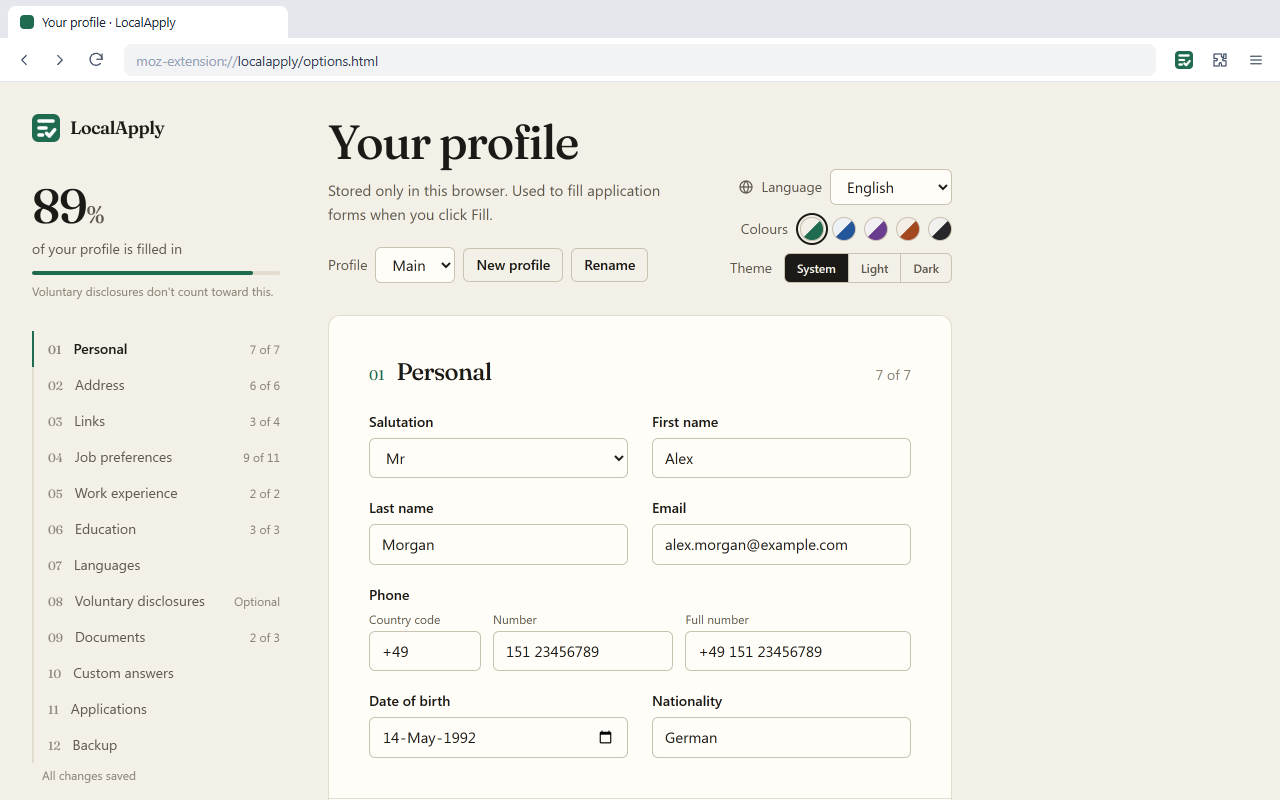
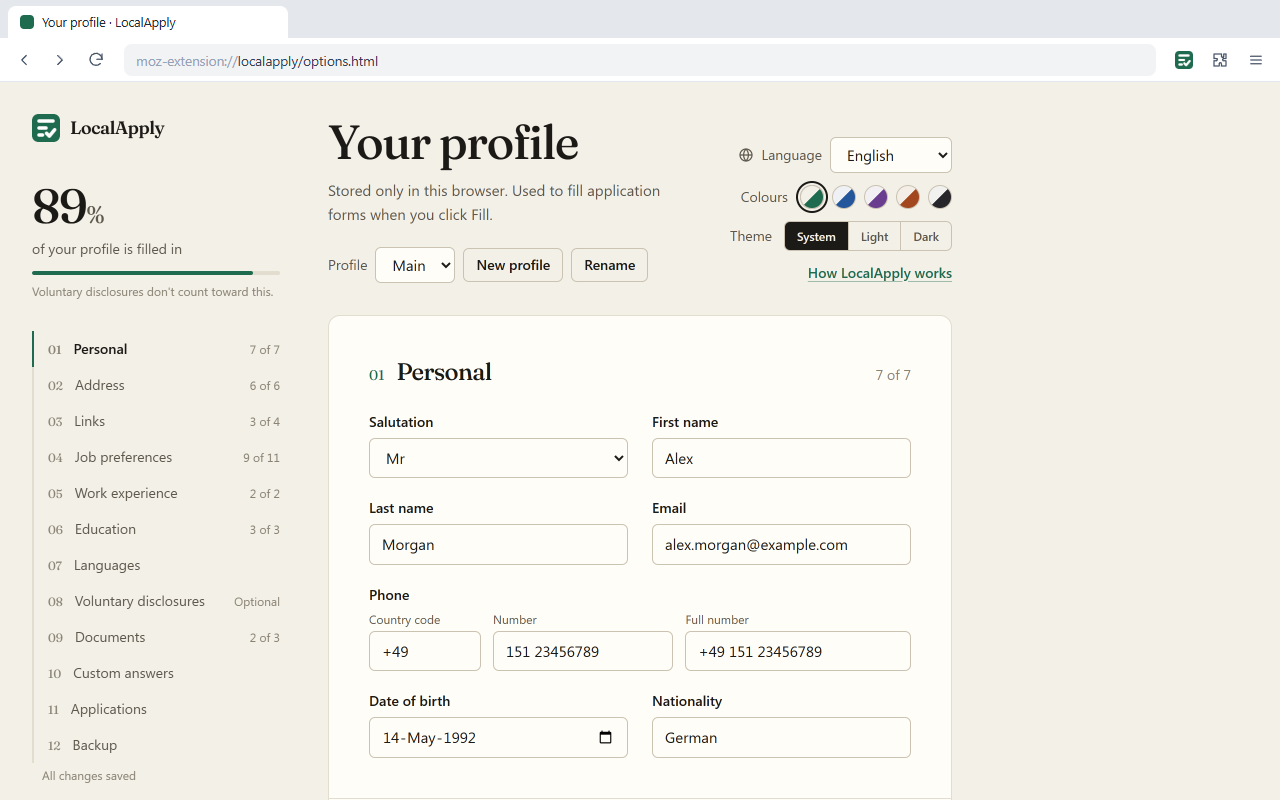
Store listings and images for 0.9.0
Store descriptions in all eight languages mention learned answers, the
right-click menu, the earlier-application note and the welcome page. Store
images are regenerated; the script now seeds the demo profile in the
per-profile format, since the background reads the profile index on startup
and an old single-key profile would no longer be moved in.

Changed region(s): [[0.5625, 0.1875, 0.75, 0.375]]

diff --git a/store/firefox/description.de.md b/store/firefox/description.de.md
@@ -8,7 +8,7 @@ Schluss damit, den Lebenslauf in jede Bewerbung abzutippen. LocalApply speichert
 - **Deine Daten bleiben privat.** Dein Profil liegt in Firefox auf deinem Rechner. Kein Konto, kein Server, keine KI, kein Tracking.
 - **In jeder Sprache bewerben.** Erkennt Feldbezeichnungen auf Deutsch, Englisch, Französisch, Spanisch, Italienisch, Niederländisch, Portugiesisch und Polnisch.
 - **So, wie es dir gefällt.** Die Oberfläche spricht acht Sprachen, mit fünf Farbpaletten und hellem oder dunklem Design.
-- **Jede Frage nur einmal beantworten.** Speichere deine Antwort auf wiederkehrende Fragen wie „Wie sind Sie auf uns aufmerksam geworden?", und sie wird beim nächsten Mal eingetragen.
+- **Jede Frage nur einmal beantworten.** Tippe deine Antwort auf eine neue Frage wie „Warum möchten Sie zu uns?" ein, und LocalApply bietet an, sie zu speichern; beim nächsten Mal wird sie eingetragen.
 
 **Was ausgefüllt wird**
 
@@ -28,16 +28,16 @@ Greenhouse, Ashby, Personio, Recruitee, Teamtailor und gewöhnliche Karriereseit
 
 **So nutzt du es**
 
-1. Gib deine Daten einmal auf der Profilseite ein. Sie öffnet sich nach der Installation von selbst.
+1. Gib deine Daten einmal auf der Profilseite ein. Nach der Installation führt dich eine kurze Willkommensseite dorthin.
 2. Öffne eine Bewerbung, klicke auf das LocalApply-Symbol in der Symbolleiste und dann auf **Diese Seite ausfüllen**, oder drücke **Alt+Umschalt+F**.
-3. Prüfe das Ergebnis. Ausgefüllte Felder bekommen einen durchgehenden grünen Rahmen; Pflichtfragen, die offen bleiben, bekommen einen gestrichelten gelben Rahmen und werden aufgelistet, damit du sie ergänzen kannst. **Rückgängig** setzt die Felder zurück.
+3. Prüfe das Ergebnis. Ausgefüllte Felder bekommen einen durchgehenden grünen Rahmen; Pflichtfragen, die offen bleiben, bekommen einen gestrichelten gelben Rahmen und werden aufgelistet, damit du sie ergänzen kannst. **Rückgängig** setzt die Felder zurück. Antworten, die du selbst eintippst, werden zum Speichern angeboten, und ein Rechtsklick füllt jedes einzelne Feld.
 
 **Sicher von Grund auf**
 
 - Klickt nie auf „Absenden" oder „Weiter" und setzt keine Einwilligungshäkchen.
 - Lässt Felder, die du schon ausgefüllt hast, unverändert.
 - Exportiere dein Profil als Datei oder lösche alles mit einem Klick.
-- Auch das Protokoll deiner ausgefüllten Bewerbungen bleibt auf deinem Rechner; schalte es ab, leere es oder exportiere es als CSV.
+- Auch das Protokoll deiner ausgefüllten Bewerbungen bleibt auf deinem Rechner, und das Pop-up sagt dir, wenn du dich schon einmal bei einer Firma beworben hast; schalte es ab, leere es oder exportiere es als CSV.
 
 **Warum Zugriff auf alle Websites nötig ist**
 

diff --git a/store/firefox/description.fr.md b/store/firefox/description.fr.md
@@ -9,6 +9,7 @@ Arrêtez de recopier votre CV dans chaque candidature. LocalApply enregistre vos
 - **Postulez dans n’importe quelle langue.** Reconnaît les intitulés des formulaires en français, anglais, allemand, espagnol, italien, néerlandais, portugais et polonais.
 - **Répondez une seule fois.** Enregistrez votre réponse à une question récurrente comme « Comment avez-vous entendu parler de nous ? » et elle sera remplie la fois suivante.
 - **À votre goût.** Interface en huit langues, cinq palettes de couleurs, thème clair ou sombre.
+- **Une seule réponse par question.** Tapez votre réponse à une nouvelle question comme « Pourquoi voulez-vous nous rejoindre ? » et LocalApply propose de l’enregistrer ; la prochaine fois, elle est remplie pour vous.
 
 **Ce qu’il remplit**
 
@@ -28,16 +29,16 @@ Greenhouse, Ashby, Personio, Recruitee, Teamtailor et les pages carrières ordin
 
 **Comment l’utiliser**
 
-1. Saisissez vos informations une fois sur la page de profil. Elle s’ouvre d’elle-même après l’installation.
+1. Saisissez vos informations une fois sur la page de profil. Après l’installation, une courte page d’accueil vous y mène.
 2. Ouvrez une candidature, cliquez sur le bouton LocalApply de la barre d’outils puis sur **Remplir cette page**, ou appuyez sur **Alt+Maj+F**.
-3. Vérifiez le résultat. Les champs remplis ont un contour vert continu ; les questions obligatoires restées sans réponse ont un contour orange en pointillés et sont listées pour que vous les complétiez. **Annuler** remet les champs comme avant.
+3. Vérifiez le résultat. Les champs remplis ont un contour vert continu ; les questions obligatoires restées sans réponse ont un contour orange en pointillés et sont listées pour que vous les complétiez. **Annuler** remet les champs comme avant. Les réponses que vous tapez vous-même sont proposées à l’enregistrement, et un clic droit remplit n’importe quel champ.
 
 **Sûr par conception**
 
 - Ne clique jamais sur « Envoyer » ou « Suivant » et ne coche jamais de case de consentement.
 - Ne touche pas aux champs que vous avez déjà remplis.
 - Exportez votre profil dans un fichier, ou supprimez tout en un clic.
-- Le journal des candidatures remplies reste lui aussi sur votre ordinateur ; désactivez-le, videz-le ou exportez-le en CSV.
+- Le journal des candidatures remplies reste lui aussi sur votre ordinateur, et la fenêtre de l’extension vous signale une entreprise où vous avez déjà postulé ; désactivez-le, videz-le ou exportez-le en CSV.
 
 **Pourquoi il a besoin d’accéder à tous les sites**
 

diff --git a/store/firefox/description.es.md b/store/firefox/description.es.md
@@ -9,6 +9,7 @@ Deja de copiar tu CV en cada candidatura. LocalApply guarda tus datos una vez, s
 - **Postula en cualquier idioma.** Reconoce las etiquetas de los formularios en español, inglés, alemán, francés, italiano, neerlandés, portugués y polaco.
 - **Responde cada pregunta una vez.** Guarda tu respuesta a una pregunta habitual como «¿Cómo nos conociste?» y se rellenará la próxima vez.
 - **A tu gusto.** Interfaz en ocho idiomas, cinco paletas de colores y tema claro u oscuro.
+- **Responde cada pregunta una sola vez.** Escribe tu respuesta a una pregunta nueva como «¿Por qué quieres trabajar con nosotros?» y LocalApply te ofrece guardarla; la próxima vez se rellena sola.
 
 **Qué rellena**
 
@@ -28,16 +29,16 @@ Greenhouse, Ashby, Personio, Recruitee, Teamtailor y las páginas de empleo norm
 
 **Cómo se usa**
 
-1. Introduce tus datos una vez en la página de perfil. Se abre sola al instalar la extensión.
+1. Introduce tus datos una vez en la página de perfil. Al instalar la extensión, una breve página de bienvenida te lleva allí.
 2. Abre una candidatura, haz clic en el botón de LocalApply de la barra de herramientas y luego en **Rellenar esta página**, o pulsa **Alt+Mayús+F**.
-3. Revisa el resultado. Los campos rellenados llevan un contorno verde continuo; las preguntas obligatorias sin responder llevan un contorno naranja discontinuo y aparecen en una lista para que las completes. **Deshacer** devuelve los campos a como estaban.
+3. Revisa el resultado. Los campos rellenados llevan un contorno verde continuo; las preguntas obligatorias sin responder llevan un contorno naranja discontinuo y aparecen en una lista para que las completes. **Deshacer** devuelve los campos a como estaban. Las respuestas que escribes tú se ofrecen para guardarlas, y un clic derecho rellena cualquier campo.
 
 **Seguro desde el diseño**
 
 - Nunca pulsa «Enviar» ni «Siguiente» y nunca marca casillas de consentimiento.
 - No toca los campos que ya has rellenado.
 - Exporta tu perfil a un archivo o bórralo todo con un clic.
-- El registro de las candidaturas que rellenas también se queda en tu ordenador; desactívalo, vacíalo o expórtalo como CSV.
+- El registro de las candidaturas que rellenas también se queda en tu ordenador, y la ventana de la extensión te avisa si ya te postulaste en una empresa; desactívalo, vacíalo o expórtalo como CSV.
 
 **Por qué necesita acceso a todos los sitios web**
 

diff --git a/store/firefox/description.it.md b/store/firefox/description.it.md
@@ -9,6 +9,7 @@ Basta ricopiare il CV in ogni candidatura. LocalApply salva i tuoi dati una volt
 - **Candidati in qualsiasi lingua.** Riconosce le etichette dei moduli in italiano, inglese, tedesco, francese, spagnolo, olandese, portoghese e polacco.
 - **Rispondi una volta sola.** Salva la risposta a una domanda ricorrente come «Come ci hai conosciuto?» e verrà inserita la volta successiva.
 - **Come piace a te.** Interfaccia in otto lingue, cinque palette di colori, tema chiaro o scuro.
+- **Ogni domanda una volta sola.** Scrivi la risposta a una domanda nuova come «Perché vuoi lavorare con noi?» e LocalApply propone di salvarla; la prossima volta viene compilata per te.
 
 **Cosa compila**
 
@@ -28,16 +29,16 @@ Greenhouse, Ashby, Personio, Recruitee, Teamtailor e le normali pagine carriere 
 
 **Come si usa**
 
-1. Inserisci i tuoi dati una volta nella pagina del profilo. Si apre da sola dopo l’installazione.
+1. Inserisci i tuoi dati una volta nella pagina del profilo. Dopo l’installazione, una breve pagina di benvenuto ti ci porta.
 2. Apri una candidatura, fai clic sul pulsante LocalApply nella barra degli strumenti e poi su **Compila questa pagina**, oppure premi **Alt+Maiusc+F**.
-3. Controlla il risultato. I campi compilati hanno un bordo verde continuo; le domande obbligatorie rimaste senza risposta hanno un bordo arancione tratteggiato e sono elencate perché tu possa completarle. **Annulla** rimette i campi com’erano.
+3. Controlla il risultato. I campi compilati hanno un bordo verde continuo; le domande obbligatorie rimaste senza risposta hanno un bordo arancione tratteggiato e sono elencate perché tu possa completarle. **Annulla** rimette i campi com’erano. Le risposte che scrivi tu vengono proposte per il salvataggio, e un clic destro compila qualsiasi campo.
 
 **Sicuro per costruzione**
 
 - Non preme mai «Invia» o «Avanti» e non spunta mai caselle di consenso.
 - Lascia invariati i campi che hai già compilato.
 - Esporta il profilo in un file o elimina tutto con un clic.
-- Anche il registro delle candidature compilate resta sul tuo computer; disattivalo, svuotalo o esportalo in CSV.
+- Anche il registro delle candidature compilate resta sul tuo computer, e la finestra dell’estensione ti avvisa se hai già inviato una candidatura a un’azienda; disattivalo, svuotalo o esportalo in CSV.
 
 **Perché chiede l’accesso a tutti i siti**
 

diff --git a/store/firefox/description.pl.md b/store/firefox/description.pl.md
@@ -9,6 +9,7 @@ Koniec z przepisywaniem CV do każdej aplikacji. LocalApply zapisuje Twoje dane 
 - **Aplikuj w każdym języku.** Rozpoznaje etykiety formularzy po polsku, angielsku, niemiecku, francusku, hiszpańsku, włosku, niderlandzku i portugalsku.
 - **Odpowiadaj na pytanie tylko raz.** Zapisz odpowiedź na powtarzające się pytanie, np. „Skąd dowiedziałeś się o nas?”, a następnym razem zostanie wpisana.
 - **Po Twojemu.** Interfejs w ośmiu językach, pięć palet kolorów, motyw jasny lub ciemny.
+- **Każde pytanie tylko raz.** Wpisz odpowiedź na nowe pytanie, np. „Dlaczego chcesz do nas dołączyć?”, a LocalApply zaproponuje jej zapisanie; następnym razem zostanie wpisana za Ciebie.
 
 **Co wypełnia**
 
@@ -28,16 +29,16 @@ Greenhouse, Ashby, Personio, Recruitee, Teamtailor i zwykłe strony kariery firm
 
 **Jak z niego korzystać**
 
-1. Wpisz swoje dane raz na stronie profilu. Otwiera się sama po instalacji.
+1. Wpisz swoje dane raz na stronie profilu. Po instalacji krótka strona powitalna zaprowadzi Cię tam.
 2. Otwórz formularz aplikacyjny, kliknij przycisk LocalApply na pasku narzędzi, a potem **Wypełnij tę stronę**, albo naciśnij **Alt+Shift+F**.
-3. Sprawdź wynik. Wypełnione pola dostają ciągłą zieloną ramkę; obowiązkowe pytania bez odpowiedzi dostają przerywaną pomarańczową ramkę i trafiają na listę, żebyś mógł je uzupełnić. **Cofnij** przywraca pola do poprzedniego stanu.
+3. Sprawdź wynik. Wypełnione pola dostają ciągłą zieloną ramkę; obowiązkowe pytania bez odpowiedzi dostają przerywaną pomarańczową ramkę i trafiają na listę, żebyś mógł je uzupełnić. **Cofnij** przywraca pola do poprzedniego stanu. Odpowiedzi wpisane samodzielnie są proponowane do zapisania, a prawy przycisk wypełnia dowolne pole.
 
 **Bezpieczny z założenia**
 
 - Nigdy nie klika „Wyślij” ani „Dalej” i nigdy nie zaznacza zgód.
 - Nie zmienia pól, które już wypełniłeś.
 - Wyeksportuj profil do pliku albo usuń wszystko jednym kliknięciem.
-- Dziennik wypełnionych aplikacji też zostaje na Twoim komputerze; wyłącz go, wyczyść albo wyeksportuj jako CSV.
+- Dziennik wypełnionych aplikacji też zostaje na Twoim komputerze, a okienko rozszerzenia przypomina, gdy firma jest już w dzienniku; wyłącz go, wyczyść albo wyeksportuj jako CSV.
 
 **Dlaczego potrzebuje dostępu do wszystkich stron**
 

diff --git a/store/firefox/description.nl.md b/store/firefox/description.nl.md
@@ -9,6 +9,7 @@ Stop met je cv overtypen in elke sollicitatie. LocalApply bewaart je gegevens é
 - **Solliciteer in elke taal.** Herkent formulierlabels in het Nederlands, Engels, Duits, Frans, Spaans, Italiaans, Portugees en Pools.
 - **Beantwoord elke vraag één keer.** Bewaar je antwoord op een terugkerende vraag zoals "Hoe heb je ons gevonden?" en het wordt de volgende keer ingevuld.
 - **Zoals jij het wilt.** Interface in acht talen, vijf kleurenpaletten, licht of donker thema.
+- **Elke vraag maar één keer beantwoorden.** Typ je antwoord op een nieuwe vraag zoals "Waarom wil je bij ons werken?" en LocalApply biedt aan het te bewaren; de volgende keer wordt het voor je ingevuld.
 
 **Wat het invult**
 
@@ -28,16 +29,16 @@ Greenhouse, Ashby, Personio, Recruitee, Teamtailor en gewone vacaturepagina’s 
 
 **Zo gebruik je het**
 
-1. Vul je gegevens één keer in op de profielpagina. Die opent vanzelf na de installatie.
+1. Vul je gegevens één keer in op de profielpagina. Na de installatie brengt een korte welkomstpagina je erheen.
 2. Open een sollicitatie, klik op de LocalApply-knop in de werkbalk en dan op **Deze pagina invullen**, of druk op **Alt+Shift+F**.
-3. Controleer het resultaat. Ingevulde velden krijgen een doorgetrokken groene rand; verplichte vragen die open blijven krijgen een gestippelde oranje rand en staan in een lijst, zodat je ze kunt aanvullen. **Ongedaan maken** zet de velden terug.
+3. Controleer het resultaat. Ingevulde velden krijgen een doorgetrokken groene rand; verplichte vragen die open blijven krijgen een gestippelde oranje rand en staan in een lijst, zodat je ze kunt aanvullen. **Ongedaan maken** zet de velden terug. Antwoorden die je zelf typt worden aangeboden om te bewaren, en met de rechtermuisknop vul je elk los veld.
 
 **Veilig van opzet**
 
 - Klikt nooit op "Versturen" of "Volgende" en vinkt nooit toestemmingsvakjes aan.
 - Laat velden die je al hebt ingevuld met rust.
 - Exporteer je profiel naar een bestand of verwijder alles met één klik.
-- Ook het logboek van ingevulde sollicitaties blijft op je computer; zet het uit, wis het of exporteer het als CSV.
+- Ook het logboek van ingevulde sollicitaties blijft op je computer, en het venster van de extensie meldt het als je al eerder bij een bedrijf solliciteerde; zet het uit, wis het of exporteer het als CSV.
 
 **Waarom het toegang tot alle websites vraagt**
 

diff --git a/store/firefox/description.pt.md b/store/firefox/description.pt.md
@@ -9,6 +9,7 @@ Chega de copiar o CV para cada candidatura. O LocalApply guarda os seus dados um
 - **Candidate-se em qualquer língua.** Reconhece as etiquetas dos formulários em português, inglês, alemão, francês, espanhol, italiano, neerlandês e polaco.
 - **Responda uma só vez.** Guarde a resposta a uma pergunta recorrente como «Como teve conhecimento de nós?» e ela será preenchida da próxima vez.
 - **À sua maneira.** Interface em oito línguas, cinco paletas de cores, tema claro ou escuro.
+- **Cada pergunta só uma vez.** Escreva a resposta a uma pergunta nova como «Porque quer trabalhar connosco?» e o LocalApply propõe guardá-la; da próxima vez é preenchida por si.
 
 **O que preenche**
 
@@ -28,16 +29,16 @@ Greenhouse, Ashby, Personio, Recruitee, Teamtailor e as páginas de carreiras no
 
 **Como usar**
 
-1. Introduza os seus dados uma vez na página de perfil. Ela abre-se sozinha depois da instalação.
+1. Introduza os seus dados uma vez na página de perfil. Depois da instalação, uma breve página de boas-vindas indica o caminho.
 2. Abra uma candidatura, clique no botão LocalApply da barra de ferramentas e depois em **Preencher esta página**, ou prima **Alt+Shift+F**.
-3. Verifique o resultado. Os campos preenchidos ficam com um contorno verde contínuo; as perguntas obrigatórias por responder ficam com um contorno laranja tracejado e aparecem numa lista para as completar. **Anular** repõe os campos como estavam.
+3. Verifique o resultado. Os campos preenchidos ficam com um contorno verde contínuo; as perguntas obrigatórias por responder ficam com um contorno laranja tracejado e aparecem numa lista para as completar. **Anular** repõe os campos como estavam. As respostas que escreve são propostas para guardar, e o botão direito preenche qualquer campo.
 
 **Seguro de raiz**
 
 - Nunca clica em «Enviar» ou «Seguinte» e nunca marca caixas de consentimento.
 - Não mexe nos campos que já preencheu.
 - Exporte o perfil para um ficheiro ou apague tudo com um clique.
-- O registo das candidaturas que preenche também fica no seu computador; desative-o, limpe-o ou exporte-o como CSV.
+- O registo das candidaturas que preenche também fica no seu computador, e a janela da extensão avisa quando já se candidatou a uma empresa; desative-o, limpe-o ou exporte-o como CSV.
 
 **Porque precisa de acesso a todos os sites**
 

diff --git a/store/firefox/description.en.md b/store/firefox/description.en.md
@@ -8,7 +8,7 @@ Stop retyping your CV into every job application. LocalApply saves your details 
 - **Keep your data private.** Your profile stays in Firefox on your computer. No account, no server, no AI service, no tracking.
 - **Apply in any language.** Recognises form labels in English, German, French, Spanish, Italian, Dutch, Portuguese and Polish.
 - **Make it yours.** The interface speaks eight languages, with five colour palettes and a light or dark theme.
-- **Answer each question once.** Save your answer to a recurring question like "How did you hear about us?" and it is filled in next time.
+- **Answer each question once.** Type your answer to a new question like "Why do you want to join us?" and LocalApply offers to save it; next time it is filled in for you.
 
 **What it fills**
 
@@ -28,16 +28,16 @@ Greenhouse, Ashby, Personio, Recruitee, Teamtailor and ordinary company career p
 
 **How to use it**
 
-1. Enter your details once on the profile page. It opens by itself after you install LocalApply.
+1. Enter your details once on the profile page. Installing LocalApply opens a short welcome page that takes you there.
 2. Open a job application, click the LocalApply toolbar button and then **Fill this page**, or press **Alt+Shift+F**.
-3. Check the result. Filled fields get a solid green outline; required questions it could not answer get a dashed amber outline and are listed so you can finish them. **Undo** puts the fields back.
+3. Check the result. Filled fields get a solid green outline; required questions it could not answer get a dashed amber outline and are listed so you can finish them. **Undo** puts the fields back. Answers you type in yourself are offered for saving, and a right-click fills any single field.
 
 **Safe by design**
 
 - Never presses Submit or Next, and never ticks consent boxes.
 - Leaves fields you have already filled in alone.
 - Export your profile to a file, or delete everything with one click.
-- A log of the applications you filled stays on your computer too; turn it off, clear it or export it as CSV.
+- A log of the applications you filled stays on your computer too, and the popup tells you when you applied to a company before; turn it off, clear it or export it as CSV.
 
 **Why it needs access to all websites**
 
